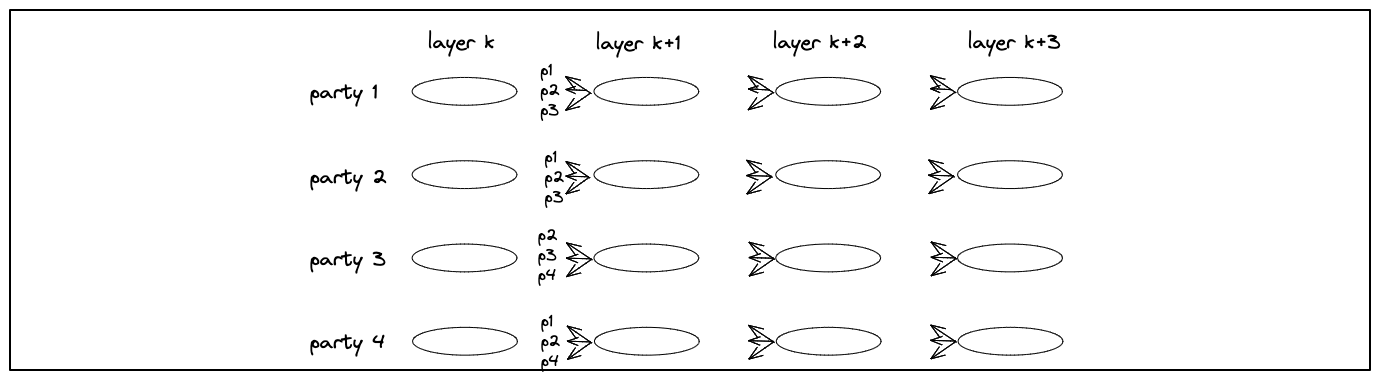
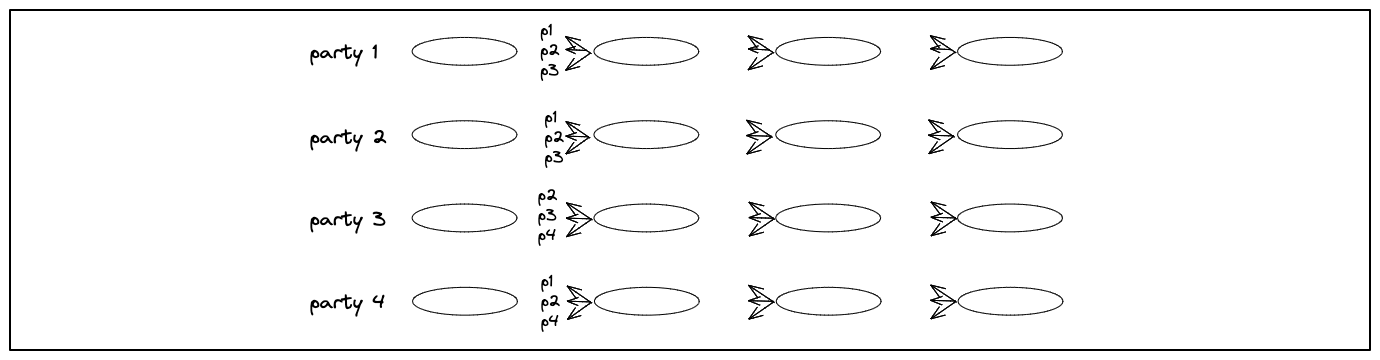
working on DAG draft

diff --git a/_drafts/DAG-BFT.md b/_drafts/DAG-BFT.md
@@ -89,7 +89,7 @@ contains comparison notes on DAG-based BFT Consensus solutions.
   <img src="/images/FIN/basic-DAG.png" width="750"  class="center"  />
 
   **_Figure: DAG Trans._** 
-  _A layer-by-layer causality DAG. Each message refers to 2F+1 ones in the preceding layer._ 
+  _A causality graph of messages, each message "fin" refers to preceding messages._ 
 
 DAG Trans is a reliable, causal broadcast communication substrate for disseminating transactions among N=3F+1 parties, at most F of which are presumed Byzantine faulty and the rest are honest.
 The substrate exposes three basic API's, `broadcast()`, `deliver()`, and `setInfo()`. 
@@ -99,9 +99,8 @@ and **Causality**.
 More specifically, DAG Trans provides a `broadcast(payload)` API for a party `p` to send a message to other parties.
 A party's upcall `deliver(m)` is triggered when a message `m` can be delivered. 
 
-In this post, we concentrate on a layer-by-layer regime, where in each layer each party is allowed to post only one message, as depicted in [**Figure: DAG Trans**](#Figure-DAG) above. 
-The layer-by-layer design regulates transmissions so as to saturate network capacity. 
-In this regime, each message must refer to a certain number of messages in the preceding layer and to the sender's own preceding message.
+Each message must refer to a certain number of preceding messages including the sender's own preceding message
+Transports are often constructed in layer-by-layer regime in order to regulate transmissions and saturate network capacity, as depicted in [**Figure: DAG Trans**](#Figure-DAG) above. In this regime, each sender is allowed one message per layer, and a message may refer only to messages in the layer preceding it.
 
 To prepare for Consensus decisions, DAG Trans exposes a single additional API `setInfo(meta)`. 
 Whenever a party invokes `broadcast()`, the transmitted message carries the latest `meta` value invoked in `setInfo(meta)` by the party. 
@@ -112,7 +111,7 @@ Every delivered message `m` carries the following fields:
 - `m.sender`, the sender identity 
 - `m.index`, a delivery index from the sender
 - `m.payload`, contents such as transaction(s)
-- `m.predecessors`, references to messages sender has seen from other parties, including itself. In a layer-by-layer construction, it includes references to 2F+1 messages in the preceding layer.
+- `m.predecessors`, references to messages sender has seen from other parties, including itself. In a layer-by-layer construction, it includes references to messages in the preceding layer.
 - `m.info`, a meta information field reserved for the Consensus protocol to inject through `setInfo()`
 
 DAG Trans satisfies the following requirements:
@@ -144,7 +143,7 @@ For Reliability to be satisfied, sufficiently many copies of `m` must be persist
 To this end, message digests are echoed by all parties. When 2F+1 echoes are collected, a message can be delivered. 
 The details of the echo protocol implementation are omitted here. We remark that echo protocols can be streamlined, resulting in high utilization and throughout (see [Narwhal](https://arxiv.org/abs/2105.11827)).
 
-#### A Note on Temporary Disconnections
+#### Layers and Temporary Disconnections
 
 Sometimes, a party may become temporarily disconnected. When it reconnects back, the DAG might have grown many layers without it.
 It is undesirable that a reconnecting party would be required to backfill every layer it missed with messages that everyone has to catch up with.
@@ -229,24 +228,22 @@ Thereafter, transmissions by the leader will carry the new view number.
 The first `view-r` message by the leader carrying `view(r) is interpreted as `proposal(r)`. 
 The proposal implicitly extends the sequence of transactions with the transitive causal predecessors of `proposal(r)`. 
 
-In [**Figure: Commit**](#Figure-Commit) below, `leader(r)` is party 1 and its first message in `view(r)` is on layer k denoted with a full yellow oval, 
+In [**Figure: Commit**](#Figure-Commit) below, `leader(r)` is party 1 and its first message in `view(r)` is denoted with a full yellow oval, 
 indicating it is `proposal(r)`. 
 
 When a party receives `proposal(r)`, it advances the meta-information value to `r` view `setInfo(r)`. 
 Thereafter, transmissions by the party will carry the new view number and the first of them be interpreted as voting for `proposal(r)`. 
 A proposal that has a quorum of 2F+1 votes is considered **committed**.
 
-Below, parties 3 and 4 vote for `proposal(r)` by advancing their view to `r` in layer k+1, denoted with striped yellow ovals. `proposal(r)` now has the required quorum of 2F+1 votes (including the leader's implicit vote), and it becomes committed.
+Below, parties 3 and 4 vote for `proposal(r)` by advancing their view to `r`, denoted with striped yellow ovals. `proposal(r)` now has the required quorum of 2F+1 votes (including the leader's implicit vote), and it becomes committed.
 
 When a party sees 2F+1 votes in `view(r)` it enters `view(r+1)`.
 
-An important feature of Fin is that votes may arrive at different layers without slowing down progress. 
-Layers meanwhile fill with useful messages that may become committed at the next view.
-
-This feature is demonstrated in the scenario below at `view(r+1)`.
-The view has party 2 as `leader(r+1)`, party 3 voting at layer k+3, and parties 1 and 4 at layer k+4.
-After layer k+4, `proposal(r+1)` has the necessary quorum of 2F+1 of votes to become committed. 
-Meanwhile, layers k+2, k+3 and k+4 fill with messages that may become committed at the next view.
+An important feature of Fin is that votes may arrive without slowing down progress. 
+The DAG meanwhile fill with useful messages that may become committed at the next view.
+This feature is demonstrated in the scenario below at `view(r+1)` that has party 2 as `leader(r+1)`.
+Once `proposal(r+1)` has the necessary quorum of 2F+1 of votes, it becomes committed. 
+Meanwhile, the DAG fills with messages that may become committed at the next view.
 
   <span id="Figure-Commit"></span>
 
@@ -260,10 +257,10 @@ Their next broadcasts are interpreted as reporting a failure of `view(r+1)`.
 When a party sees 2F+1 reports that `view(r+1)` is faulty it enters `view(r+2)`. 
 
 In [**Figure: Fault**](#Figure-Fault) below, the first view `view(r)` proceeds normally. 
-However, no message marked `view(r+1)` by `leader(r+1)` arrives, showing as a missing oval on layer k+2. 
-Parties 1, 3, 4 report this by setting their meta-information to `-(r+1)`, showing as striped red ovals in layer k+3.
+However, no message marked `view(r+1)` by `leader(r+1)` arrives, showing as a missing oval. 
+Parties 1, 3, 4 report this by setting their meta-information to `-(r+1)`, showing as striped red ovals.
 
-At layer k+4, the leader of `view(r+2)` posts a messages that has meta-information set to `r+2`, taken as `proposal(r+2)`. 
+After 2F+1 reports are collected, the leader of `view(r+2)` posts a messages that has meta-information set to `r+2`, taken as `proposal(r+2)`. 
 Note that this message has in its causal past messages carrying `-(r+1)` meta-information. 
 Hence, faulty views have utility in advancing the global sequence of transaction, just like any other view.
 
@@ -276,8 +273,9 @@ Hence, faulty views have utility in advancing the global sequence of transaction
 
 
 A slightly more complex scenario is depicted in [**Figure: Partial-Fault**](#Figure-Partial-Fault) below. 
-Here, `leader(r+1)` emits `proposal(r+1)` in layer k+2 that receives one vote by party 1 in layer k+3.
-However, the proposal is too slow to arrive at parties 3 and 4, and both parties report a view failure in layer k+3. There is no quorum enabling a commit in `view(r+1)`, nor entering `view(r+2)`. Eventually, party 1 also times out and reports a failure of `view(r+1)` in layer k+4. This enables `view(r+2)` to start. `view(r+2)` is similar to the scenario in [**Figure: Fault**](#Figure-Fault) above, except that when `proposal(r+2)` commits, it indirectly commits `proposal(r+1)`. 
+Here, `leader(r+1)` emits `proposal(r+1)` that receives one vote by party 1.
+However, the proposal is too slow to arrive at parties 3 and 4, and both parties report a view failure.
+There is no quorum enabling a commit in `view(r+1)`, nor entering `view(r+2)`. Eventually, party 1 also times out and reports a failure of `view(r+1)`. This enables `view(r+2)` to start. `view(r+2)` is similar to the scenario in [**Figure: Fault**](#Figure-Fault) above, except that when `proposal(r+2)` commits, it indirectly commits `proposal(r+1)`. 
 
   <span id="Figure-Partial-Fault"></span>
 
